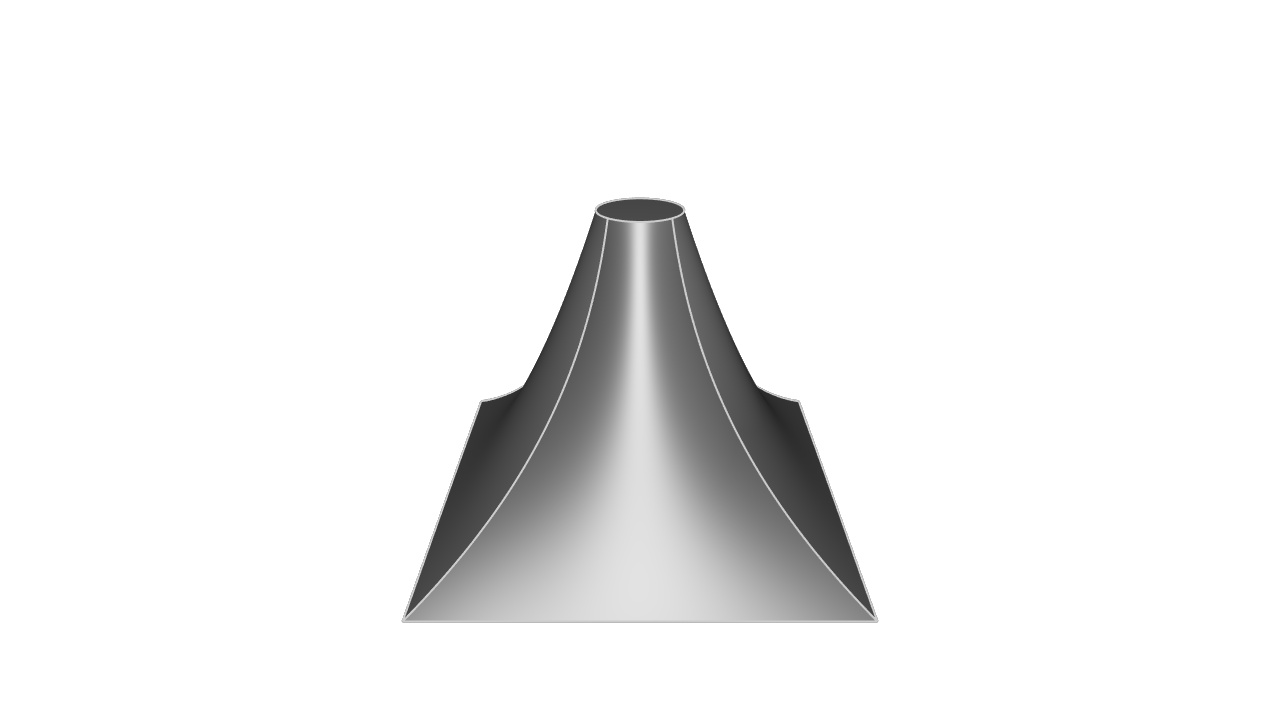
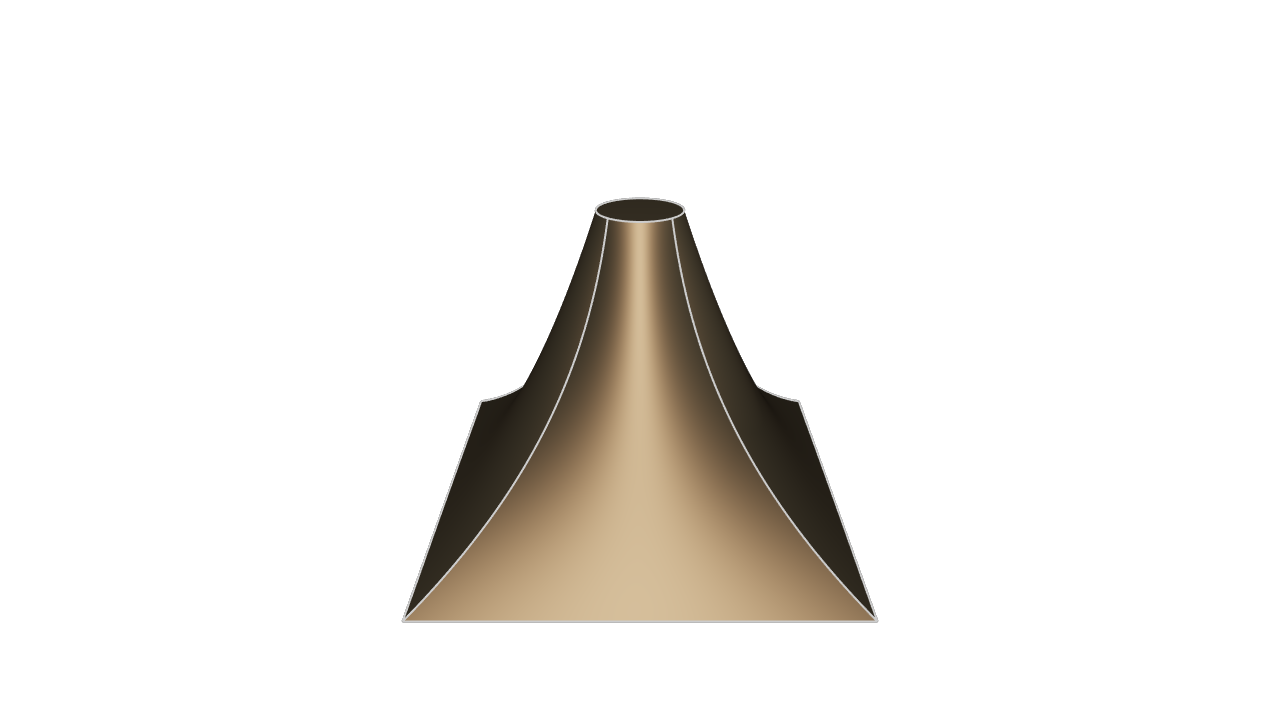
YOYO NEW KCL DOCS!!

Changed region(s): [[0.3125, 0.275, 0.6875, 0.8861]]

diff --git a/content/pages/docs/kcl-samples/README.md b/content/pages/docs/kcl-samples/README.md
@@ -91,6 +91,8 @@ When you submit a PR to add or modify KCL samples, images will be generated and 
 [![engine-valve](screenshots/engine-valve.png)](engine-valve/main.kcl)
 #### [exhaust-manifold](exhaust-manifold/main.kcl) ([screenshot](screenshots/exhaust-manifold.png))
 [![exhaust-manifold](screenshots/exhaust-manifold.png)](exhaust-manifold/main.kcl)
+#### [field-monitor-stand](field-monitor-stand/main.kcl) ([screenshot](screenshots/field-monitor-stand.png))
+[![field-monitor-stand](screenshots/field-monitor-stand.png)](field-monitor-stand/main.kcl)
 #### [flange](flange/main.kcl) ([screenshot](screenshots/flange.png))
 [![flange](screenshots/flange.png)](flange/main.kcl)
 #### [flat-bladed-impeller](flat-bladed-impeller/main.kcl) ([screenshot](screenshots/flat-bladed-impeller.png))

diff --git a/content/pages/docs/kcl-std/functions/std-sketch-loft.md b/content/pages/docs/kcl-std/functions/std-sketch-loft.md
@@ -92,10 +92,11 @@ circleSketch1 = startSketchOn(offsetPlane(XY, offset = 150))
   |> circle(center = [0, 100], radius = 20)
 
 loft([
-  squareSketch,
-  circleSketch0,
-  circleSketch1
-])
+       squareSketch,
+       circleSketch0,
+       circleSketch1
+     ])
+  |> appearance(color = "#da7333", roughness = 50, metalness = 90)
 
 ```
 
